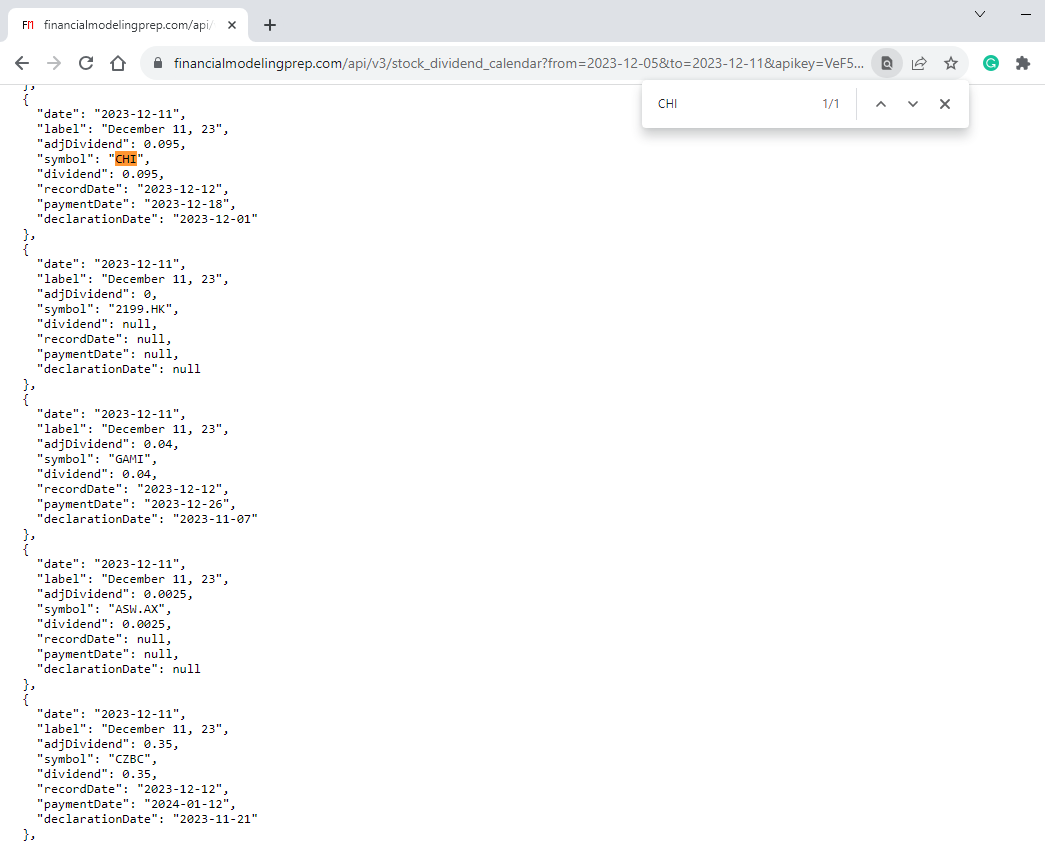
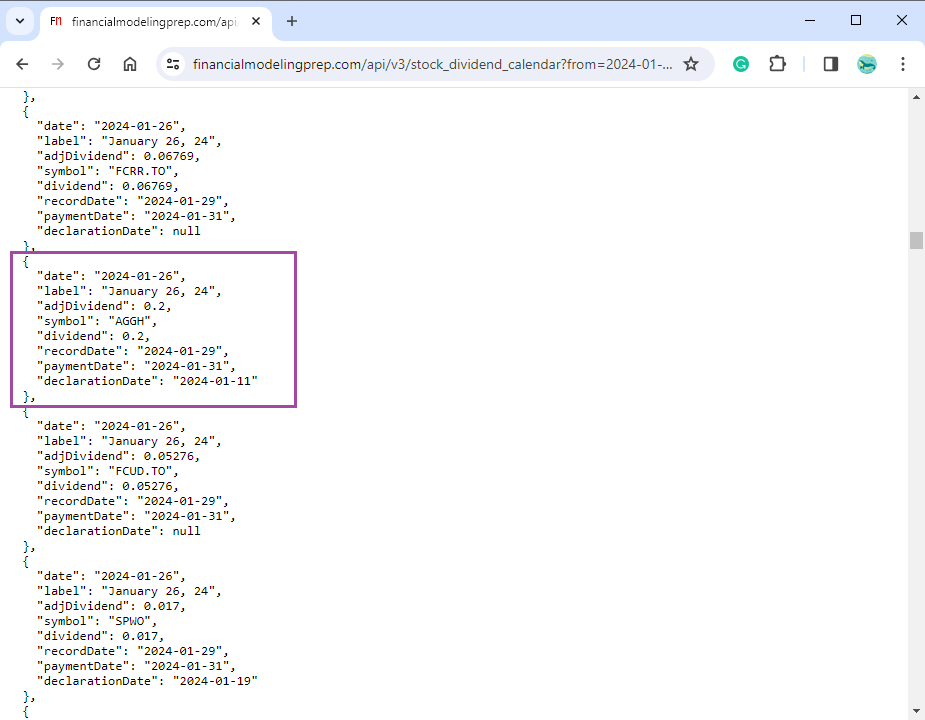
Update picture

diff --git a/readme.md b/readme.md
@@ -50,6 +50,7 @@ Here are the summary steps.
 3> Test the result using SQL as follows.
 
 ```sql
+-- test_query_1
 select * from kkp_staging.fmp__delisted_companies__daily_staging;
 select * from kkp_staging.fmp__historical_dividends__daily_staging;
 select * from kkp_dw.fmp__delisted_companies__daily_update order by 1 desc, 2;
@@ -57,6 +58,7 @@ select * from kkp_dw.fmp__historical_dividends__daily_update order by 1 desc, 2;
 ```
 
 ```sql
+-- test_query_2
 select delisted_date, count(1) as cnt, max(_sys_record_time) as latest_sys_record_time
 from kkp_staging.fmp__delisted_companies__daily_staging 
 group by 1 order by 1 desc;
@@ -77,10 +79,14 @@ group by 1 order by 1 desc;
 
 ### Testing & Demo
 
-![cap1](https://github.com/Chaisup/fmp_ingestion/blob/main/cap_demo_mysql_1.png)
+Example [API:stock_dividend_calendar]
+![cap0](https://github.com/Chaisup/fmp_ingestion/blob/main/cap_demo_fmp_api.png)
 
+MySQL
+![cap1](https://github.com/Chaisup/fmp_ingestion/blob/main/cap_demo_mysql_1.png)
 ![cap2](https://github.com/Chaisup/fmp_ingestion/blob/main/cap_demo_mysql_2.png)
 
+VSC
 ![cap3](https://github.com/Chaisup/fmp_ingestion/blob/main/cap_demo_python.png)
 
 
@@ -89,4 +95,5 @@ group by 1 order by 1 desc;
 	[python.org]: <https://www.python.org/downloads/release/python-3106/>
 	[freecodecamp.org]: <https://www.freecodecamp.org/news/how-to-install-mysql-workbench-on-windows/>
 	[vsc]: <https://code.visualstudio.com/download>
+	[API:stock_dividend_calendar]: <https://financialmodelingprep.com/api/v3/stock_dividend_calendar?from=2024-01-01&to=2024-01-31&apikey=VeF5THZjZC1SznBwCsexx5m6W31A9oQR>
 
